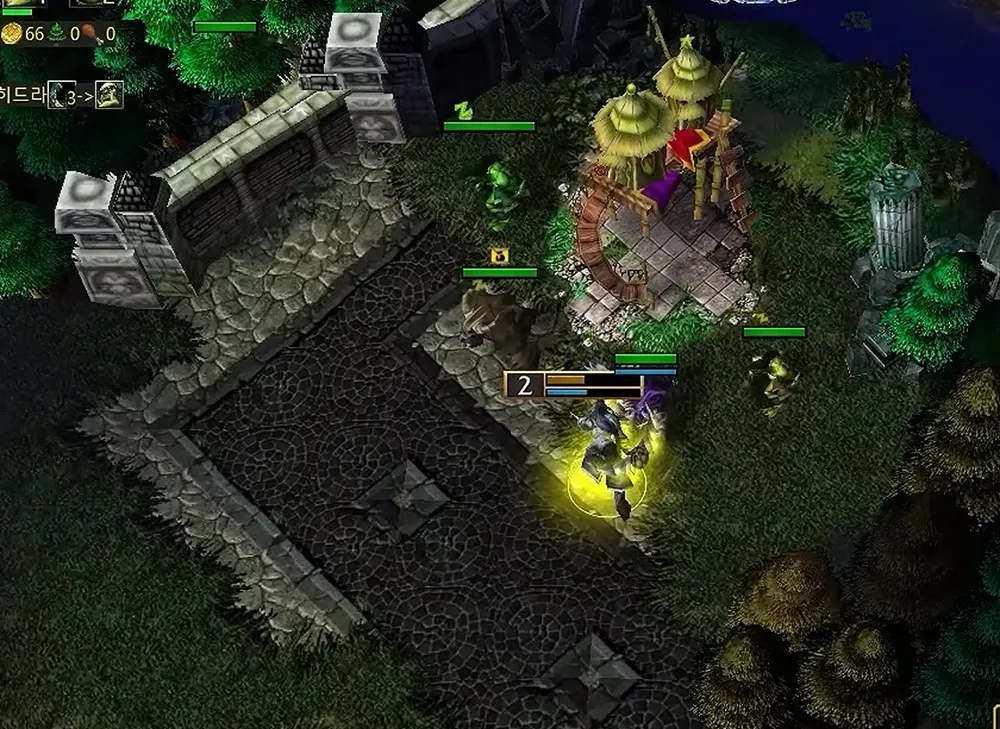
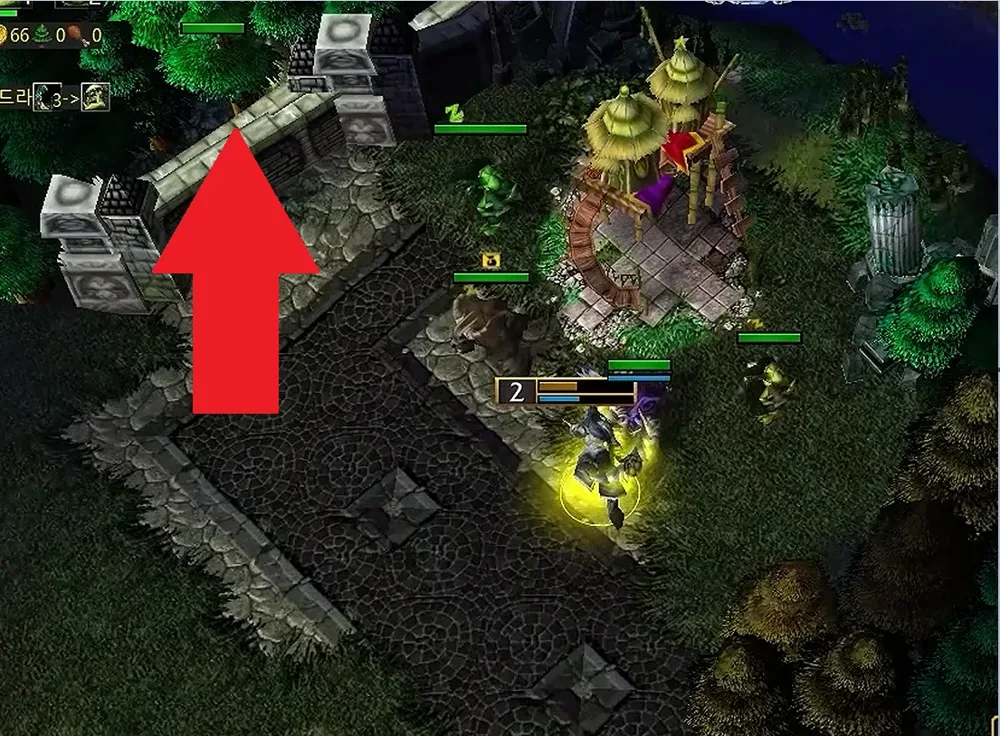
Hammerfall wisp spot: move to the trees behind the merchant wall, clearer picture
Claude-Session: https://claude.ai/code/session_01EfHpzh42WDfr7rTbrgxq27

diff --git a/src/data/wispSpots.ts b/src/data/wispSpots.ts
@@ -13,7 +13,7 @@ export interface WispSpot {
 }
 
 const SPOTS: Record<string, Omit<WispSpot, 'image'>[]> = {
-  hammerfall: [{ id: 'bottom-merchant', label: 'Bottom merchant', x: 209, y: 368 }],
+  hammerfall: [{ id: 'bottom-merchant', label: 'Bottom merchant', x: 181, y: 347 }],
 }
 
 export function wispSpots(mapId: string): WispSpot[] {
